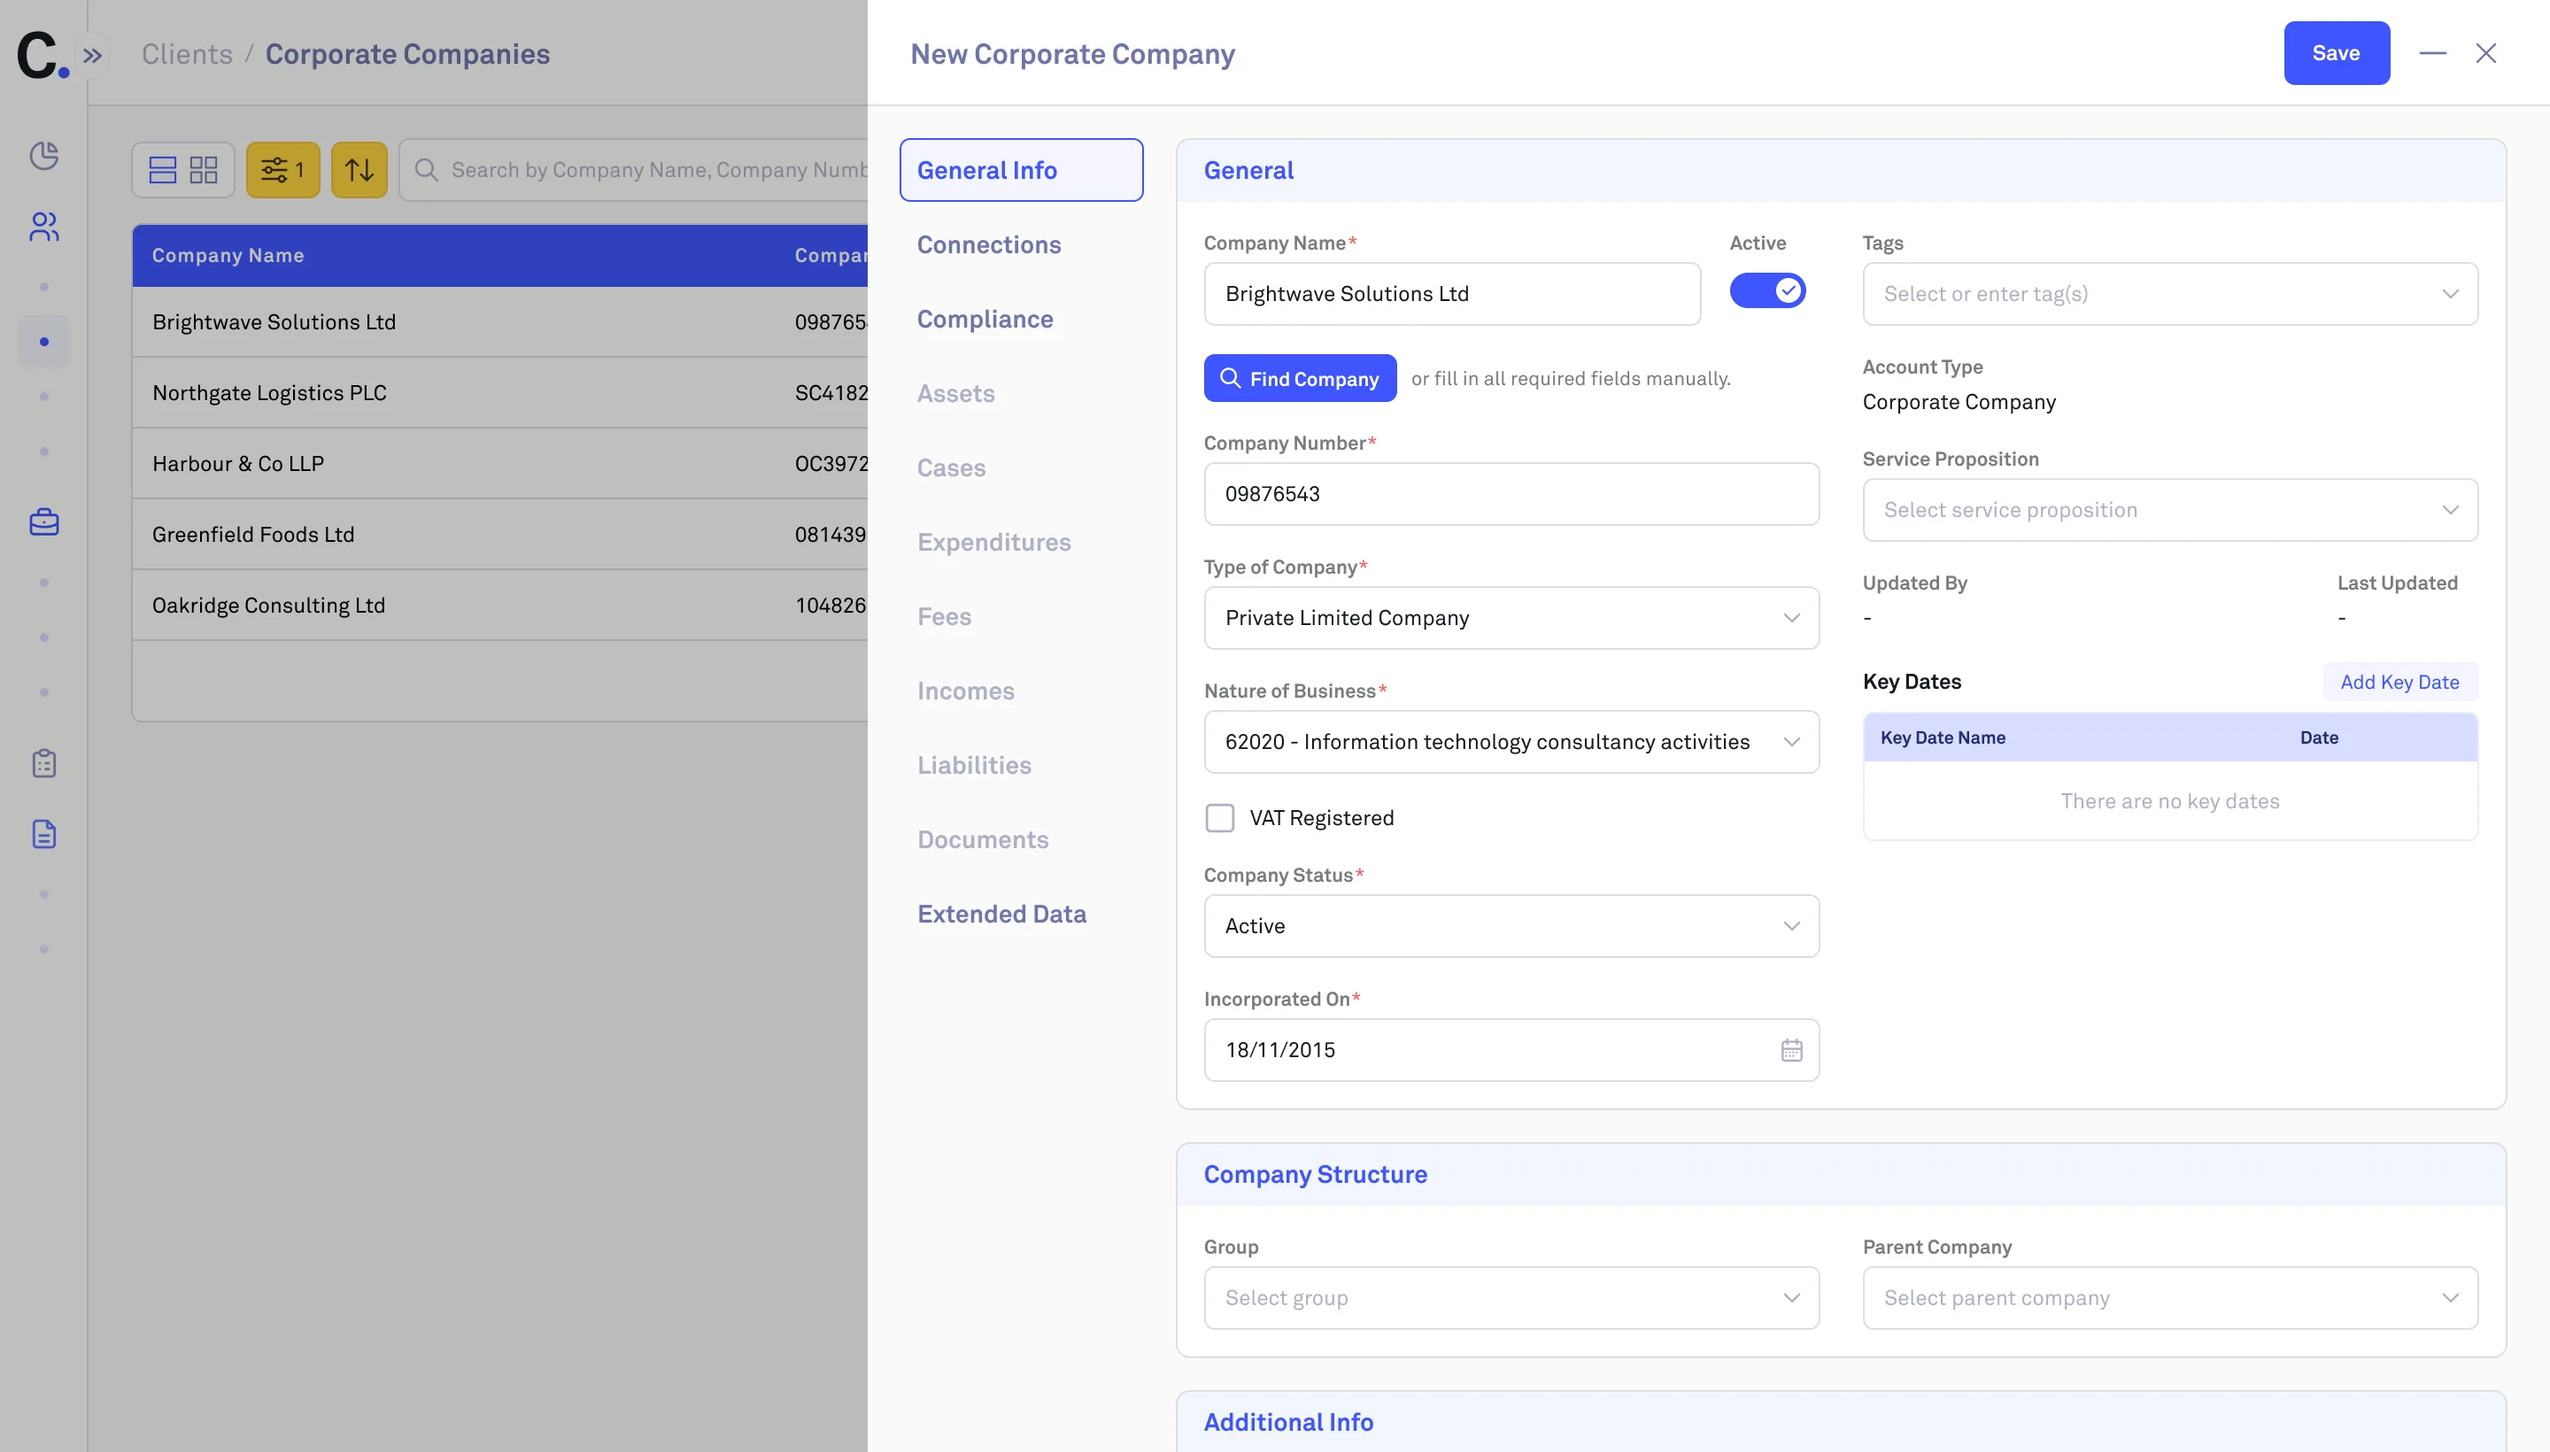
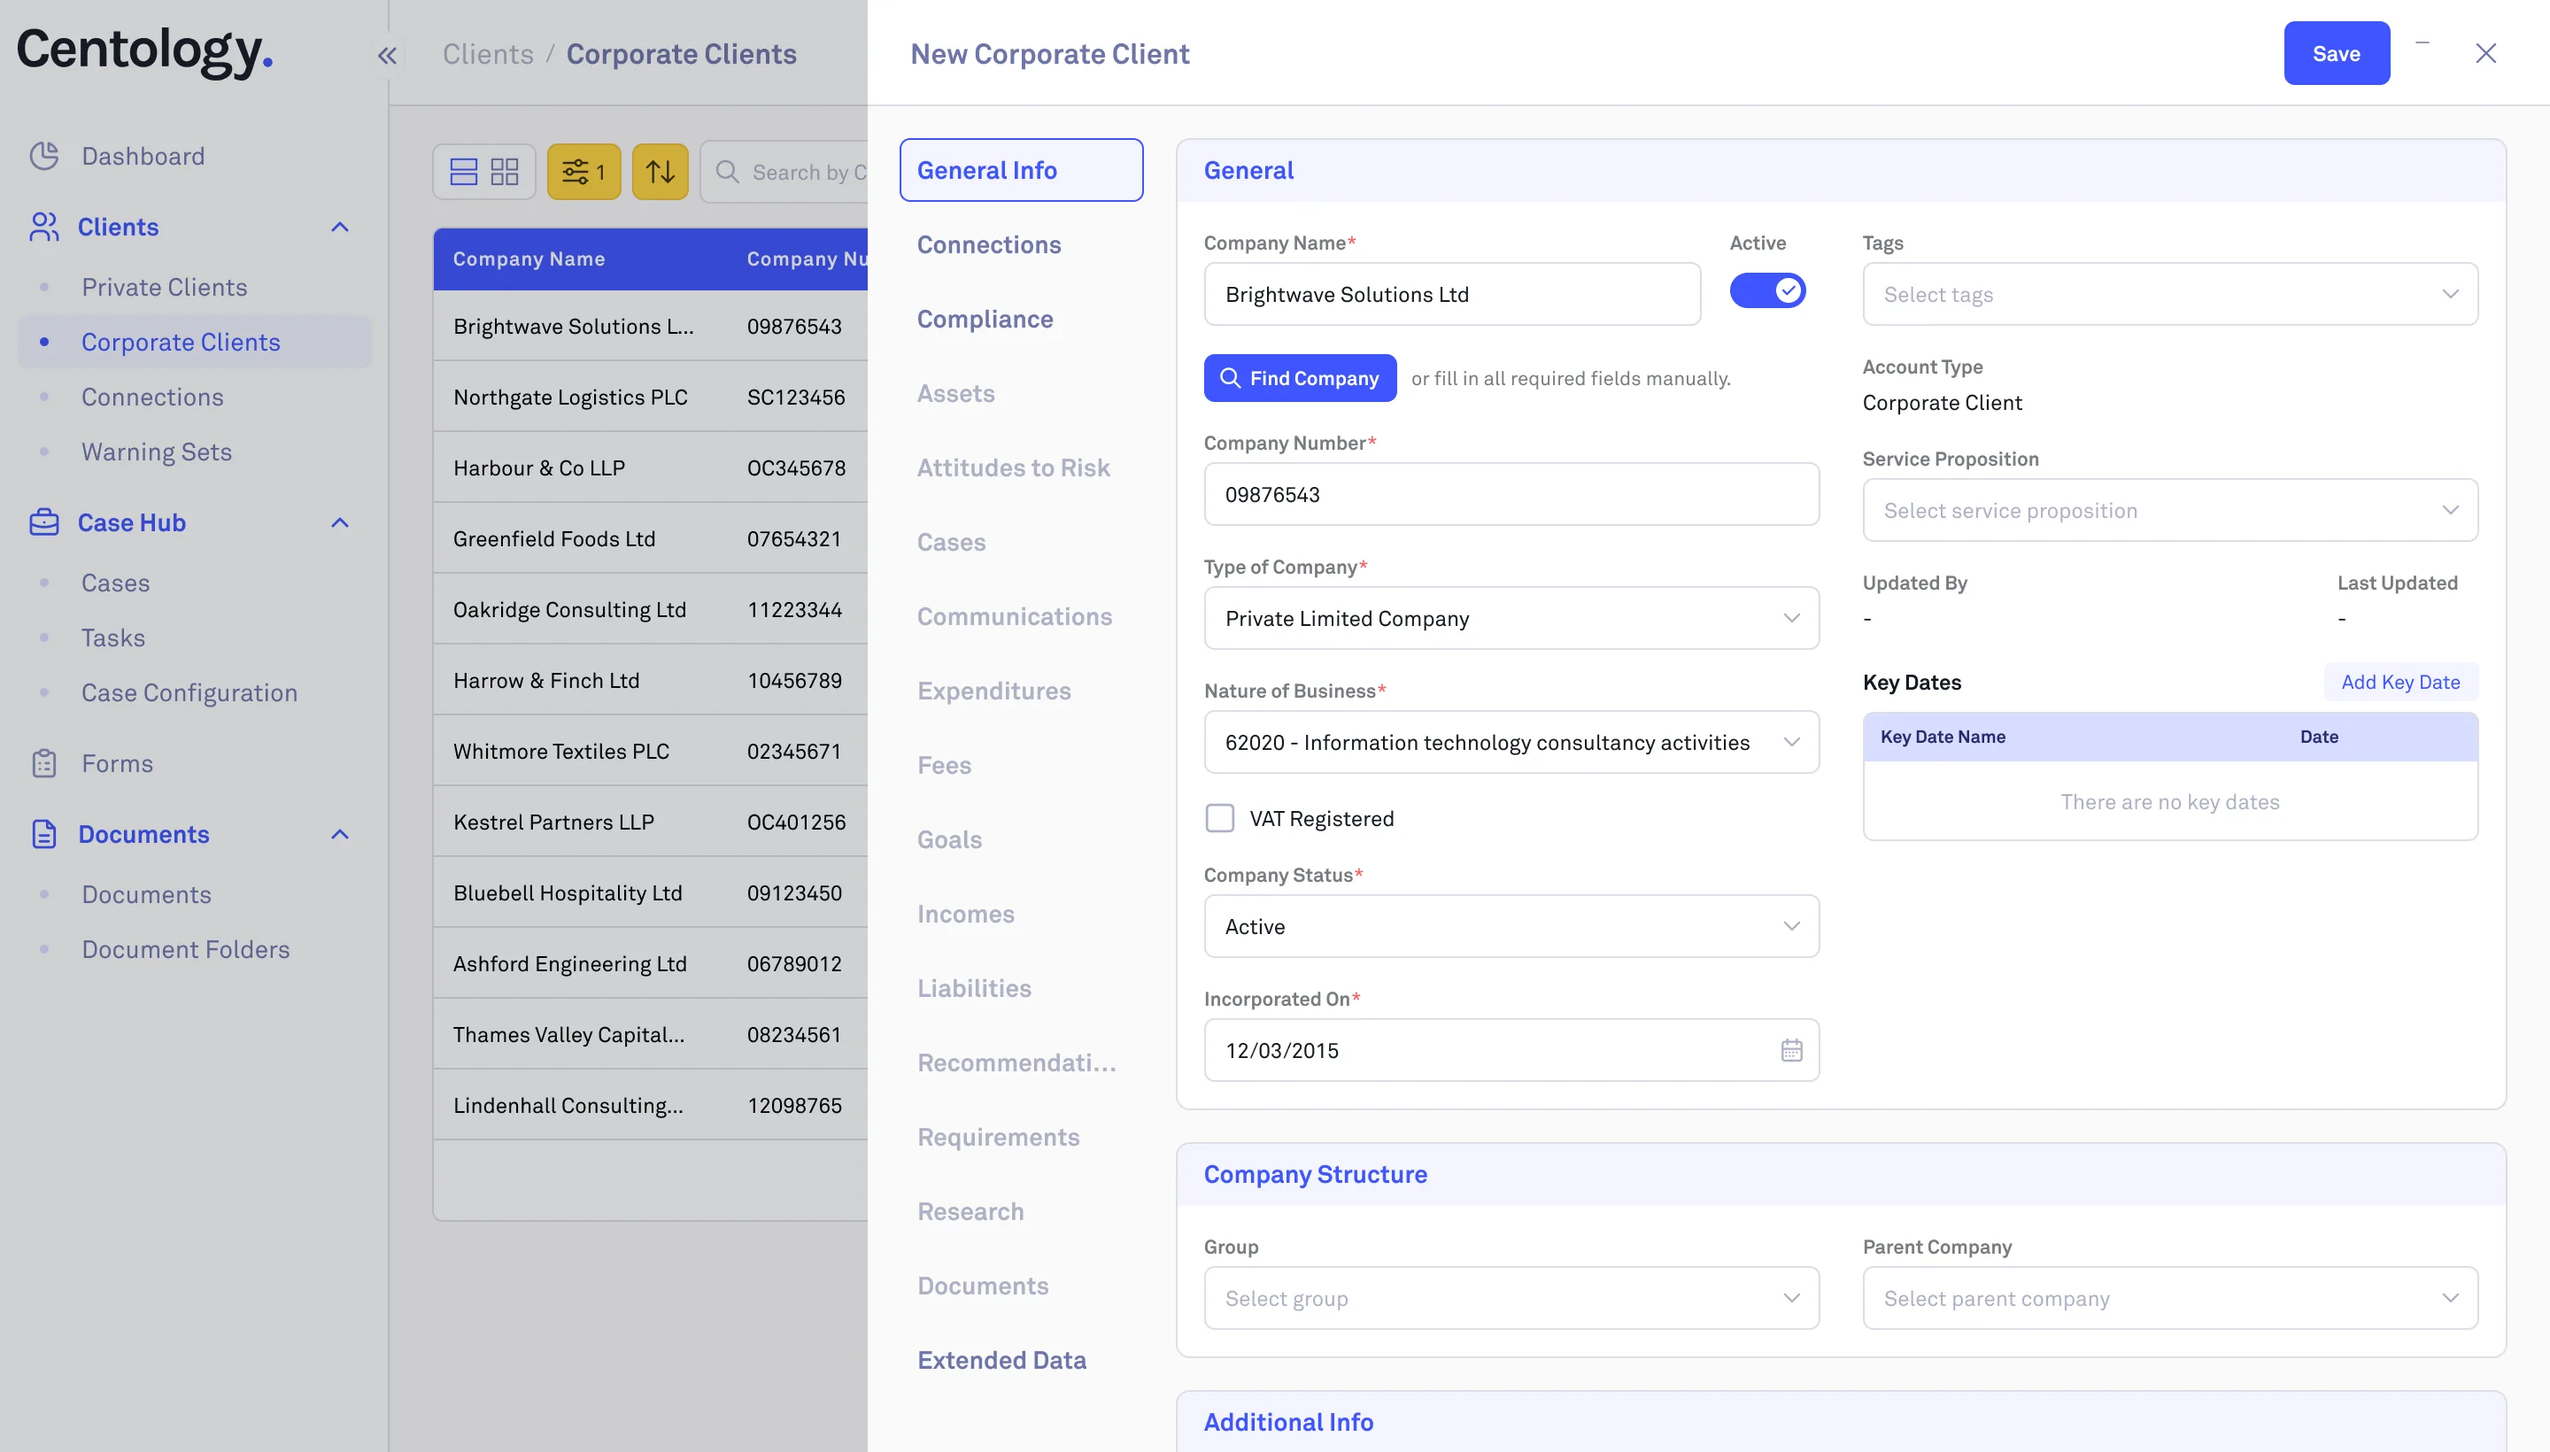
Case: update corporate clients roles copy and screens

diff --git a/en/work/centology/index.html b/en/work/centology/index.html
@@ -680,7 +680,7 @@
                         <span class="compare__tag compare__tag--before" aria-hidden="true">Before</span>
                       </div>
                       <div class="compare__layer compare__layer--after">
-                        <img class="compare__img" src="../../../assets/img/case/centology/s3-after.webp" srcset="../../../assets/img/case/centology/s3-after.webp 1440w, ../../../assets/img/case/centology/s3-after@2x.webp 2880w" sizes="(width < 768px) 100vw, 1134px" alt="Corporate Companies list with the New Corporate Company side panel open; a Find Company button sits under Company Name." width="1440" height="820" loading="lazy">
+                        <img class="compare__img" src="../../../assets/img/case/centology/s3-after.webp" srcset="../../../assets/img/case/centology/s3-after.webp 1440w, ../../../assets/img/case/centology/s3-after@2x.webp 2880w" sizes="(width < 768px) 100vw, 1134px" alt="Corporate Clients list with the New Corporate Client side panel open; a Find Company button sits under Company Name." width="1440" height="820" loading="lazy">
                         <span class="compare__tag compare__tag--after" aria-hidden="true">After</span>
                       </div>
                       <span class="compare__line" aria-hidden="true"></span>
@@ -702,7 +702,7 @@
                     <div class="details-row__content">
                       <dl class="logic">
                         <div><dt>States</dt><dd>New, edit and details modes in one panel; related tabs unlock after the first save.</dd></div>
-                        <div><dt>Roles</dt><dd>It adds a new Employee role: employees will sign in to see their own data. What exactly they can see and do is still being defined with the BA.</dd></div>
+                        <div><dt>Roles</dt><dd>It adds a new Employee client type. An adviser links an employee to the company in Connections and switches on Access; the company then shows up in that employee's profile.</dd></div>
                         <div><dt>Edge cases</dt><dd>Company details can come from Companies House; the form handles an imported company, no match, and a duplicate company number.</dd></div>
                       </dl>
                     </div>
